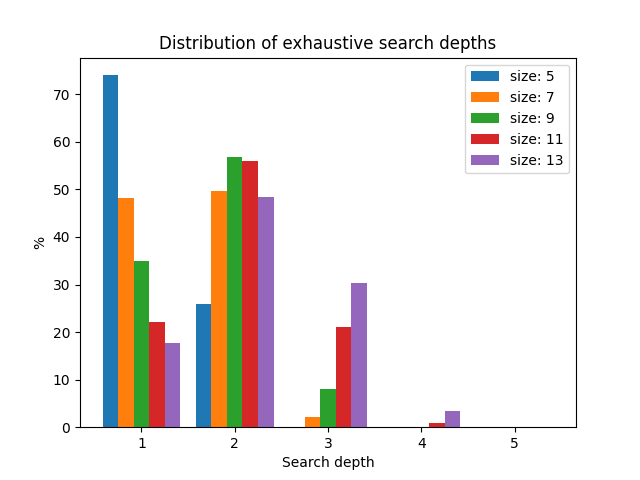
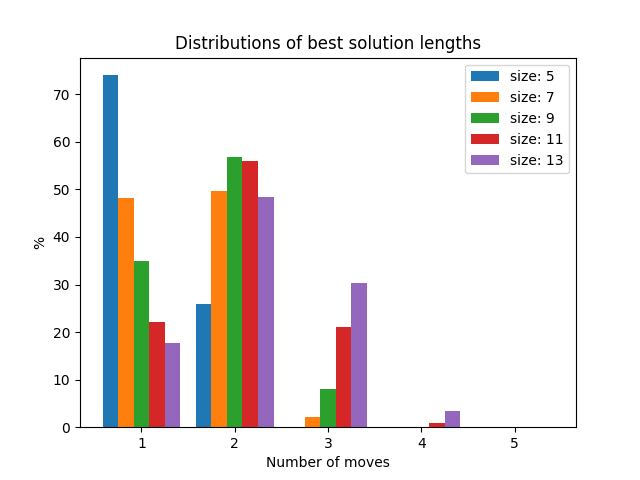
adjusts plot labels

Changed region(s): [[0.25, 0.0625, 0.7812, 0.125], [0.4062, 0.9375, 0.625, 1.0]]

diff --git a/experiments/exhsearch/depths.py b/experiments/exhsearch/depths.py
@@ -82,8 +82,8 @@ def plot(infile, outfile):
         ax.bar(x=percentages.index-leftmost+i*width, height=percentages["mazesize"], width=width,
                label=f"size: {maze_size}")
     ax.set_ylabel('%')
-    ax.set_xlabel("Search depth")
-    ax.set_title('Distribution of exhaustive search depths')
+    ax.set_xlabel("Number of moves")
+    ax.set_title('Distributions of best solution lengths')
     ax.set_xticks(depths)
     ax.set_xticklabels(depths)
     ax.legend()
